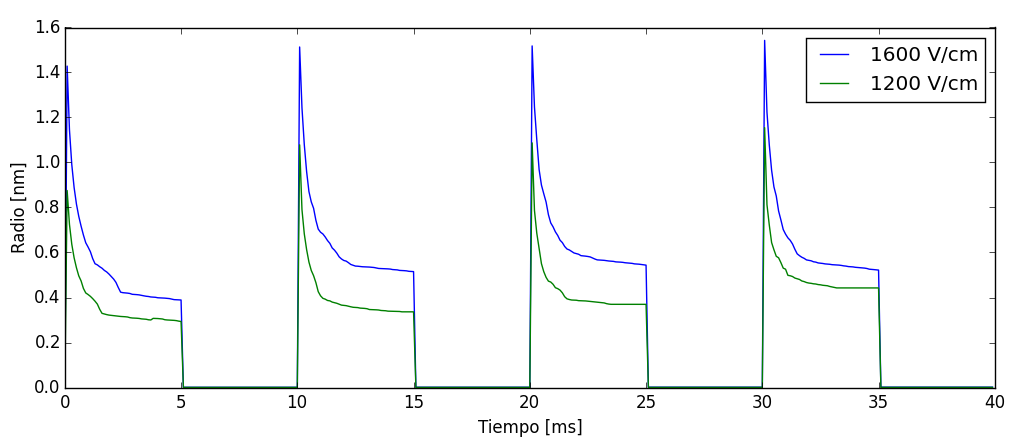
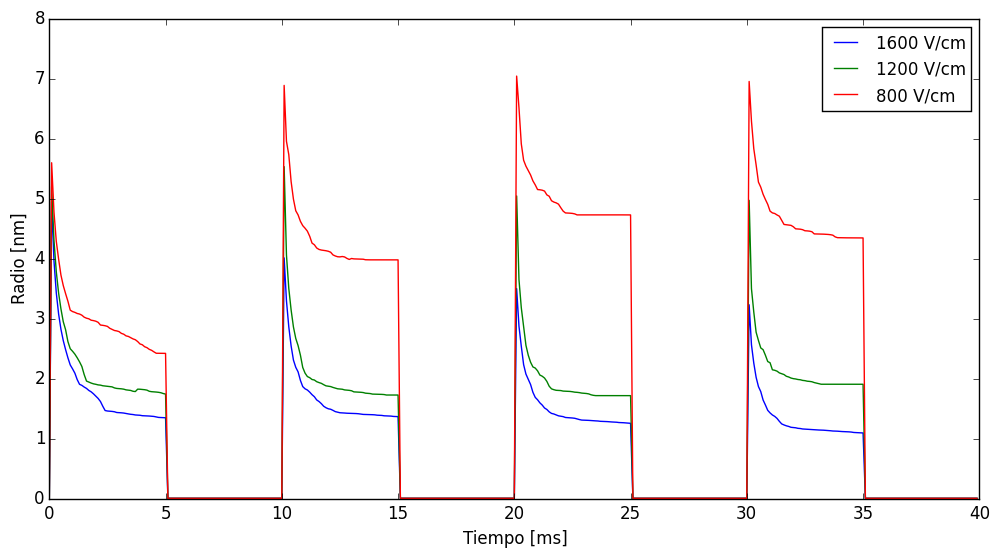
sellamiento de poros, template

diff --git a/latex/template/poros.tex b/latex/template/poros.tex
@@ -92,9 +92,9 @@ En las figuras \ref{fig:tita120} y \ref{fig:tita160} se graficaron los potencial
 
 %%%%
 
-Se estudió también el efecto de aplicar una señal de varios pulsos en lugar uno solo. En la figura \ref{fig:poros-tiempo} se graficó la cantidad de poros en función del tiempo para 4 pulsos de 5\ms de \ontime{} y 5\ms de \offtime{} con dos potenciales diferentes. Se puede ver que la cantidad de poros crece únicamente al principio de cada pulso, y se mantiene casi constante durante el resto del pulso, disminuyendo muy levemente durante el tiempo de apagado. Por cada pulso nuevo se crean poros nuevos, aunque la cantidad de poros nuevos disminuye con cada pulso consecutivo. Se puede ver también que el efecto del campo eléctrico sobre la densidad es enorme, obteniéndose poblaciones de casi el doble de poros para al aumentar el potencial aplicado de 1200\vcm a 1600\vcm.
+Se estudió también el efecto de aplicar una señal de varios pulsos en lugar uno solo. En la figura \ref{fig:poros-tiempo} se graficó la cantidad de poros en función del tiempo para 4 pulsos de 5\ms de \ontime{} y 5\ms de \offtime{} con varios potenciales diferentes. Se puede ver que la cantidad de poros crece únicamente al principio de cada pulso, y se mantiene casi constante durante el resto del pulso, disminuyendo muy levemente durante el tiempo de apagado. Por cada pulso nuevo se crean poros nuevos, aunque la cantidad de poros nuevos disminuye con cada pulso consecutivo. Se puede ver también que el efecto del campo eléctrico sobre la densidad es enorme, obteniéndose poblaciones de casi el doble de poros para al aumentar el potencial aplicado de 1200\vcm a 1600\vcm. El valor 500\vcm como valor mínimo necesario para obtener una cantidad considerable de poros, mientras que para 400\vcm y otros valores menores la densidad es despreciable, es decir casi no se produce electroporación. 
 
-En la figura \ref{fig:radios-tiempo} se graficó el promedio de los radios de los poros en función del tiempo. Se nota que los radios altos se obtienen por un instante muy corto de tiempo al principio de cada pulso, y que rápidamente se achican llegando a un valor de equilibrio en aproximadamente la mitad del tiempo del \ontime. Cuando el pulso se apaga, los radios se hacen rápidamente mínimos, y se mantienen en un valor muy chico hasta el inicio del próximo pulso. Nuevamente el potencial aplicado afecta los resultados, agrandando el tamaño de los poros. En cada pulso consecutivo parecen aumentar ligeramente los radios obtenidos, notándose la mayor diferencia entre los radios del primer y el segundo pulso. 
+En la figura \ref{fig:radios-tiempo} se graficó el promedio de los radios de los poros en función del tiempo. Se nota que los radios altos se obtienen por un instante muy corto de tiempo al principio de cada pulso, y que rápidamente se achican llegando a un valor de equilibrio en aproximadamente la mitad del tiempo del \ontime. Cuando el pulso se apaga, los radios se hacen rápidamente mínimos, y se mantienen en un valor muy chico hasta el inicio del próximo pulso. A diferencia de la cantidad de poros, el radio promedio disminuye al aumentar el potencial eléctrico. Esto puede deberse a que un mayor campo eléctrico produce muchos poros de radio mínimo, afectando el promedio de manera negativa. En cada pulso consecutivo parecen aumentar ligeramente los radios obtenidos, notándose la mayor diferencia entre los radios del primer y el segundo pulso. 
 
 En las figuras \ref{fig:pulso1} a \ref{fig:pulso4} se observan las distribuciones de radios de poros para 1600\vcm al instante de 100\usec luego del comienzo de cada pulso. Las diferencias entre radios se observan sobre todo entre el primer y segundo pulso, mientras que los siguientes parecen tener distribuciones muy similares. La mayor concentración se encuentra siempre en los radios muy pequeños (de aproximadamente 1 \si{\nano\metre}), que afectan poco al proceso de permeabilización de la membrana.
 

diff --git a/celula/scripts/radios_vs_tiempo.py b/celula/scripts/radios_vs_tiempo.py
@@ -11,6 +11,10 @@ import re
 FOLDERS = [
 	('../salida/pulsativo/02-16/', '1600 V/cm'),
 	('../salida/pulsativo/02-17/120kvm/', '1200 V/cm'),
+	('../salida/pulsativo/03-06/800vcm/', '800 V/cm'),
+#	('../salida/pulsativo/03-06/500vcm/', '500 V/cm'),
+#	('../salida/pulsativo/03-06/400vcm/', '400 V/cm'),
+#	('../salida/pulsativo/03-06/300vcm/', '300 V/cm'),
 ]
 
 font = { 'size': 16 }
@@ -22,13 +26,13 @@ def get_radio_avg(fname):
 			if i == 0: continue
 			total += float(line.split(',')[1])
 	avg = 0
-	if i > 0: avg = total / 1
+	if i > 0: avg = total / i
 	#print 1, avg
 	return avg
 
 plt.clf()
 fig, ax = plt.subplots()
-fig.set_size_inches(12, 4.5)
+fig.set_size_inches(12, 6)
 
 for folder, label in FOLDERS:
 	poros_folder = folder + '/poros/'
@@ -39,8 +43,8 @@ for folder, label in FOLDERS:
 	
 	for file in files:
 		reg = re.match('.*\\poros\-\d+\-(.*)\.csv', file)
-		time = float(reg.groups()[0]) * 1000
-		radios = get_radio_avg(file) * 1e9
+		time = float(reg.groups()[0])
+		radios = get_radio_avg(file)
 		values.append((time, radios))
 
 	values = sorted(values, key = lambda x : x[0])
@@ -51,18 +55,17 @@ for folder, label in FOLDERS:
 	times = np.array(times)
 	radios = np.array(radios)
 
-	ax.plot(times, radios, label = label)
+	ax.plot(times * 1e3, radios * 1e3, label=label)
 	#plt.semilogx(times, radios, label = label)
-	
-ax.legend(loc = 'upper right')
 
 #ax.set_xlim(0, 5)
 
 plt.xlabel('Tiempo [ms]')
 plt.ylabel('Radio [nm]')
+plt.legend(loc='upper right', prop={'size':12})
 
 #plt.show()
 
-outfile = 'temp.png'
+outfile = '../../latex/template/graficos/poros/radios-tiempo.png'
 pylab.savefig(outfile, bbox_inches='tight')
 print outfile

diff --git a/celula/scripts/itv_tita.py b/celula/scripts/itv_tita.py
@@ -8,14 +8,16 @@ import os
 #para generar graficos de itv vs angulo de los itv.csv
 
 FOLDERS = [		# (ruta, radio, cant(angulos))
-    ("../salida/last/02-03/120/", 25, 192),
-	("../salida/last/02-03/160/", 25, 192),
+	('../salida/pulsativo/03-06/300vcm/', 25, 192),
+	('../salida/pulsativo/03-06/400vcm/', 25, 192),
+	('../salida/pulsativo/03-06/500vcm/', 25, 192),
+	('../salida/pulsativo/03-06/800vcm/', 25, 192),
 ]
 
 font = { 'size': 16 }
 
 TIMES = [750e-9, 1.5e-6, 16e-6]
-LABELS = ['750 $ns$', '1.5 $\\mu s$', '16 $\\mu s$']
+LABELS = ['750 ns', '1.5 $\\mu$s ', '16 $\\mu$s']
 
 for (folder, radio, mesh) in FOLDERS:
 	#for dir in os.listdir(folder):
@@ -71,6 +73,8 @@ for (folder, radio, mesh) in FOLDERS:
 		ax.set_ylabel('PTM [V]', fontdict=font)
 		ax.set_xlabel('$\\theta$ [rad]', fontdict=font)
 		ax.set_xlim(0, np.pi)
+
+		#plt.show()
 
 		pylab.savefig(
 			'%s/itv-tita-%s-%s.png' % (folder, radio, mesh), 

diff --git a/celula/scripts/poros_vs_tiempo.py b/celula/scripts/poros_vs_tiempo.py
@@ -11,6 +11,10 @@ import re
 FOLDERS = [
 	('../salida/pulsativo/02-16/', '1600 V/cm'),
 	('../salida/pulsativo/02-17/120kvm/', '1200 V/cm'),
+	('../salida/pulsativo/03-06/800vcm/', '800 V/cm'),
+	('../salida/pulsativo/03-06/500vcm/', '500 V/cm'),
+	('../salida/pulsativo/03-06/400vcm/', '400 V/cm'),
+	('../salida/pulsativo/03-06/300vcm/', '300 V/cm'),
 ]
 
 font = { 'size': 16 }
@@ -23,7 +27,7 @@ def count_lines(fname):
 
 plt.clf()
 fig, ax = plt.subplots()
-fig.set_size_inches(12, 4.5)
+fig.set_size_inches(12, 6)
 
 for folder, label in FOLDERS:
 	poros_folder = folder + '/poros/'
@@ -52,9 +56,10 @@ ax.legend(loc = 'upper left')
 
 plt.xlabel('Tiempo [ms]')
 plt.ylabel('Poros')
+plt.legend(loc=2, prop={'size':12})
 
 #plt.show()
 
-outfile = 'temp.png'
+outfile = '../../latex/template/graficos/poros/poros-tiempo.png'
 pylab.savefig(outfile, bbox_inches='tight')
 print outfile

diff --git a/celula/src/EntradaSalida.cpp b/celula/src/EntradaSalida.cpp
@@ -361,7 +361,7 @@ void EntradaSalida::grabarPoros(Poros& radios, bool verbose) {
 			fprintf(fPoros, "%#10f, %#15.9g\n", info.tita, radio.first);
 		}
 
-		for (uint i = 0; i < info.porosChicos; i++) {
+		for (int i = 0; i < info.porosChicos; i++) {
 			fprintf(fPoros, "%#10f, %#15.9g\n", info.tita, info.radioChico);
 		}
 	}
